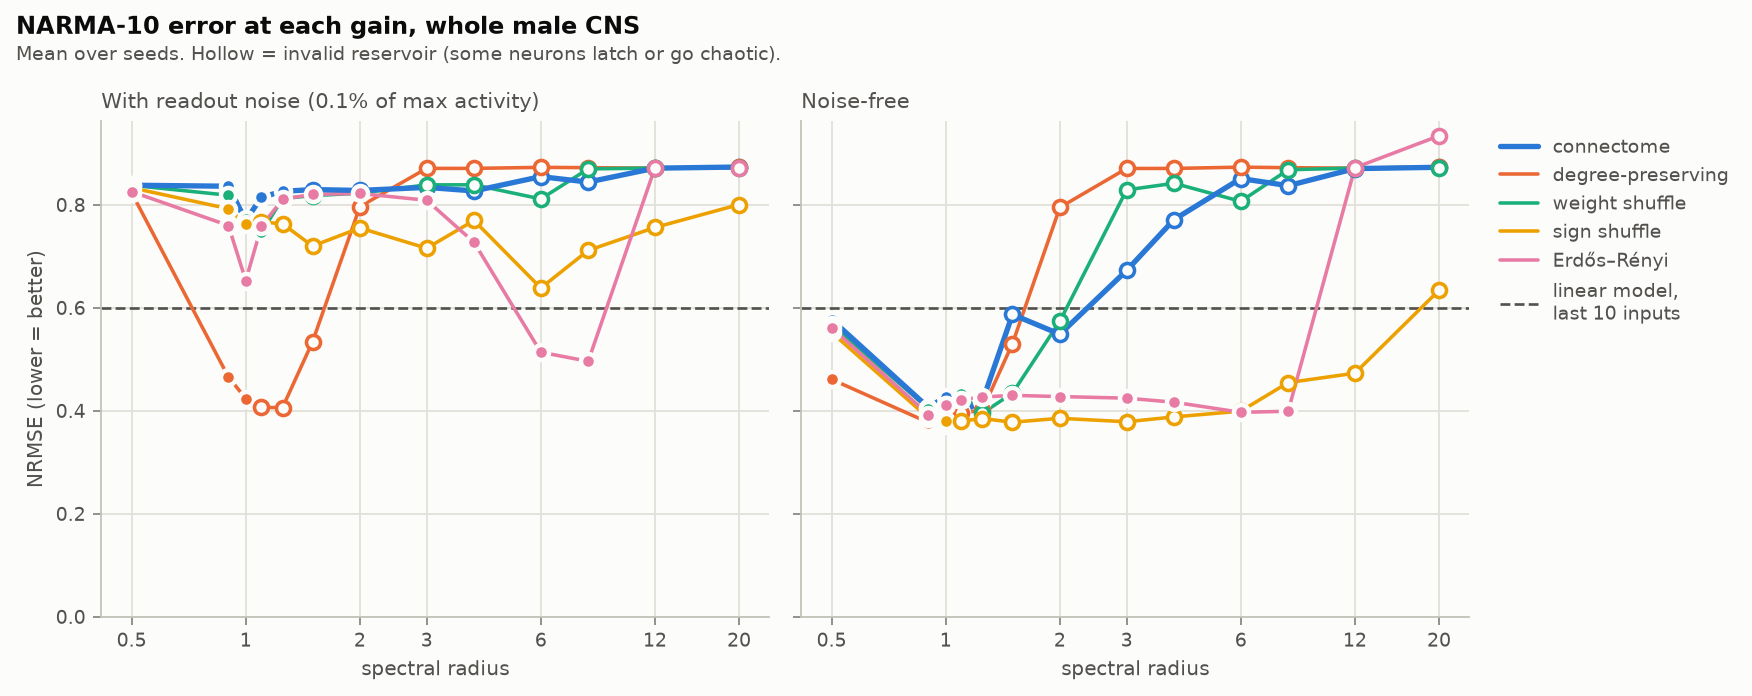
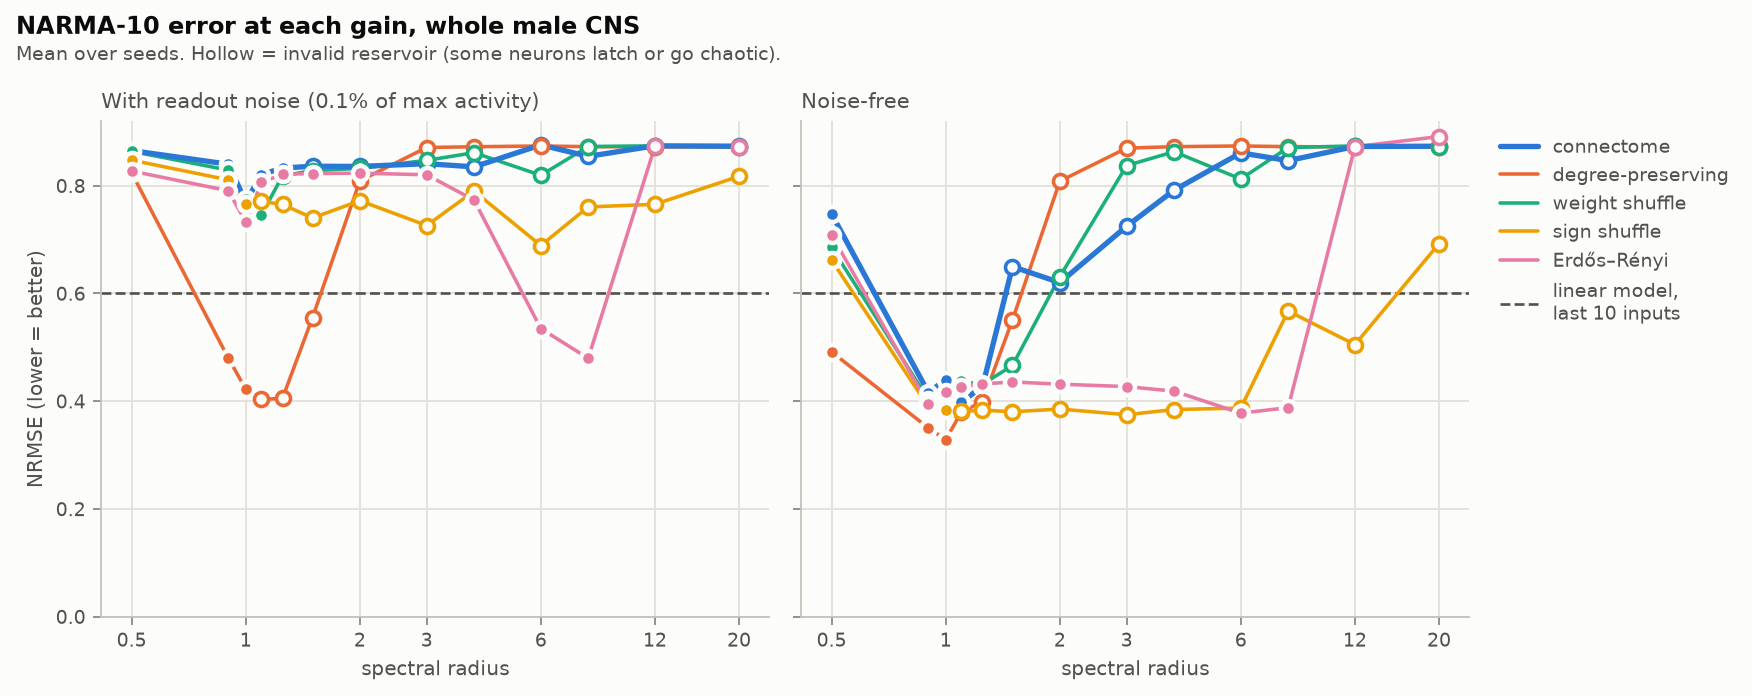
v1.0.1: NARMA-10 and volatility numbers from the corrected runs

diff --git a/src/flyres/narma.py b/src/flyres/narma.py
@@ -201,7 +201,8 @@ def narma_markdown(cfg: ExperimentConfig, grid: pd.DataFrame, best: pd.DataFrame
     noise = cfg.memory.readout_noise
     lines = [f"# NARMA-10: {cfg.name}", "",
              f"NRMSE on the last {N_TEST} of {N_STEPS} steps (lower is better; 1 = predicting the mean). Readout on "
-             f"u(t) and the reservoir state, ridge penalty picked on the end of the training window. "
+             f"u(t) and the recorded neurons one step later, once u(t) has reached them, ridge penalty picked on "
+             f"the end of the training window. "
              f"{len(cfg.seeds)} seed(s); a gain is valid when at most {STABLE_MAX_UNSTABLE:.0%} of readouts are unstable "
              f"in each of {cfg.memory.stability_tests} latching tests, for every seed.", ""]
     if noisy:

diff --git a/src/flyres/__init__.py b/src/flyres/__init__.py
@@ -4,4 +4,4 @@ Pipeline: connectome -> subgraph -> (real or control) wiring -> echo state netwo
 -> ridge readout -> walk-forward evaluation on market data.
 """
 
-__version__ = "1.0.0"
+__version__ = "1.0.1"

diff --git a/README.md b/README.md
@@ -58,11 +58,11 @@ folders; each script's `summary.md` has the rest.
 - **Robust:** feeding the input into random neurons or slowing the neurons down leaves the fly far
   behind across the whole brain. The one exception, slow neurons in a small circuit, is fragile.
 - **Replicated:** FlyWire's female brain, a second, independent connectome, has the same knots in the
-  same order (all but one) and at least the same whole-brain deficit. The male CNS small-circuit tie
-  doesn't replicate.
-- **Volatility:** every reservoir beats the standard HAR benchmark by about 17% at a 5-day horizon,
-  but a linear model with the same inputs already gets 15 of those 17 points, and the wiring moves
-  the result by about 1 point.
+  same order (all but one) and the same whole-brain deficit, larger against Erdős–Rényi. The male
+  CNS small-circuit tie doesn't replicate.
+- **Volatility:** across the whole brain every reservoir beats the standard HAR benchmark by about
+  17% at a 5-day horizon (15–16% in the small circuit), but a linear model with the same inputs
+  already gets 15 of those 17 points, and the wiring moves the result by about 1 point.
 
 <p align="center">
   <img src="docs/img/scoreboard.png" width="900" alt="Dumbbell chart: in every setup and both connectomes, the fly's memory against the better of the two random rewirings; the fly is far behind across the whole brain and level or behind in the small circuits, except with slow neurons">
@@ -147,7 +147,7 @@ distant past or go chaotic, in each of four latching tests with different inputs
 - **3,000 neurons: a tie.** Raising the gain to 3 more than doubles the fly's memory, and four of
   the five wirings land between 6.0 and 7.4, with the fly (6.7) between the two scrambled wirings
   (6.0 and 7.1; the sign shuffle latches at any gain above 1.1 and stays at 4.3). In this circuit
-  the next hot spot is much weaker than the antennal lobe (82 vs 251), so the gain can go up about
+  the next hot spot is much weaker than the antennal lobe (82 vs 252), so the gain can go up about
   3× and wake most of the circuit (59% of readouts move) before anything latches. Noise-free, the
   connectome and the weight shuffle even come out ahead (14.0 and 14.7 vs 9.6 to 11.2), but that
   lead lives in tiny fluctuations and disappears with noise.
@@ -243,8 +243,8 @@ do.)
   where it started (7–9×).
 - **The fly mostly latches.** Of its 12 tries (4 targets × 3 seeds), the fly ends up valid once in
   the small circuit and twice in the whole brain; the degree-preserving shuffle 9 times at both
-  scales. When the fly latches, 80–90% of the circuit locks up at once (checked on the small
-  circuit), so it's a global state, not one knot.
+  scales. When the fly latches, most of the circuit usually locks up at once (a median of 88% of the
+  readouts in the small circuit, 90% in the whole brain), so it's a global state, not one knot.
 - **Topology again, at brain scale.** In the small circuit the weight shuffle (the fly's connections,
   synapse counts shuffled) does fine, which suggested the fly's actual synapse counts were the
   problem. The whole brain doesn't back that up: there the weight shuffle never ends up valid (0 of
@@ -272,21 +272,24 @@ its best valid one, with the same readout noise as memory capacity.
 
 | NARMA-10 error (NRMSE, lower is better), best valid gain | connectome | degree-preserving | weight shuffle | sign shuffle | Erdős–Rényi |
 |---|---|---|---|---|---|
-| 3,000 neurons, readout noise | 0.70 | 0.66 | 0.70 | 0.65 | 0.68 |
-| whole CNS, readout noise | **0.77** | 0.42 | 0.75 | 0.76 | 0.50 |
-| *whole CNS, noise-free* | *0.43* | *0.37* | *0.43* | *0.38* | *0.40* |
+| 3,000 neurons, readout noise | 0.70 | 0.67 | 0.71 | 0.67 | 0.71 |
+| whole CNS, readout noise | **0.77** | 0.42 | 0.75 | 0.77 | 0.48 |
+| *whole CNS, noise-free* | *0.44* | *0.33* | *0.44* | *0.38* | *0.39* |
 
 - **Same split as memory.** Across the whole brain, the two wirings that scramble the fly's
-  connections beat the linear model (0.42 and 0.50); the three that keep them don't (0.75 to 0.77),
+  connections beat the linear model (0.42 and 0.48); the three that keep them don't (0.75 to 0.77),
   even at their best gain.
 - **Memory capacity predicts it.** Over all valid whole-brain reservoirs, more memory means lower
-  NARMA error (Spearman ρ = −0.69, 90 reservoirs; −0.38 in the small circuit). So memory capacity
+  NARMA error (Spearman ρ = −0.66, 90 reservoirs; −0.37 in the small circuit). So memory capacity
   isn't a quirky benchmark: it tracks the ability to compute with the past.
-- **In the small circuit nothing beats the linear model** once there's readout noise (best 0.65
-  against 0.60). 300 readout neurons out of 3,000 can't carry that product cleanly enough.
-- **Noise-free, every wiring looks alike** (0.37 to 0.43 across the whole brain, in line with
-  published echo state results), because the readout decodes the fly's millionth-sized
-  fluctuations. The first version of this benchmark was scored that way and flattered the fly.
+- **In the small circuit nothing beats the linear model** once there's readout noise (best 0.67
+  against 0.60). Noise-free most wirings do, down to 0.43 and 0.45 for the weight shuffle and the
+  connectome at gain 3, but that doesn't survive the noise.
+- **Noise-free, the wirings look much closer** (0.33 to 0.44 across the whole brain), because the
+  readout decodes the fly's millionth-sized fluctuations. The first version of this benchmark was
+  scored that way and flattered the fly. (A later check also caught it reading the recorded neurons
+  a step too early, before the newest input had reached them; fixing that changed the whole-brain
+  numbers above by at most 0.04.)
 
 ### Robustness: moving the input, slowing the neurons
 
@@ -358,11 +361,11 @@ nerve cord (139,248 neurons). It goes through the identical pipeline: same code,
   projection neurons. Next come the optic lobe (159, 154), the central brain (115) and the central
   complex (78, 73). In the male CNS: 251, then 206, 178, 173, a mushroom-body knot (148) that isn't
   among FlyWire's top eight, then 116.
-- **The same whole-brain deficit, or worse.** At the standard gain only 1% of FlyWire's readouts move
-  (79% in the degree-preserving shuffle), and the fly's memory is 2.3 against 16.1; in the male CNS's
-  gain sweep it was 2.2 against 16.1. At each wiring's best gain the fly reaches 3.0 against 22 and 72
-  (7× and 24× behind, against 8× and 11× in the male CNS), and the three wirings with the fly's
-  connections end up at 3.0 to 3.3, as in the male CNS (2.9 to 3.1).
+- **The same whole-brain deficit, larger against Erdős–Rényi.** At the standard gain only 1% of
+  FlyWire's readouts move (79% in the degree-preserving shuffle), and the fly's memory is 2.3 against
+  16.1; in the male CNS's gain sweep it was 2.2 against 16.1. At each wiring's best gain the fly
+  reaches 3.0 against 22 and 72 (7× and 24× behind, against 8× and 11× in the male CNS), and the
+  three wirings with the fly's connections end up at 3.0 to 3.3, as in the male CNS (2.9 to 3.1).
 - **The small-circuit tie doesn't replicate.** FlyWire's 3,000-neuron circuit, grown the same way
   from its most-connected sensory neurons, leaves the fly 5–9× behind even at its best gain (4.8 vs
   25 and 42). The tie was a property of the male CNS circuit, not of fly wiring.
@@ -384,8 +387,9 @@ Returns are close to unpredictable; volatility isn't. `scripts/vol_forecast.py` 
 on the same reservoirs (same wiring, inputs and seeds as above) and forecasts the log realized
 variance over the next 5 and 22 trading days, walk-forward on the same test days. The benchmark is
 HAR (Corsi 2009), the standard model for this. Each reservoir's readout also sees the HAR features
-and its own 5 inputs directly, so it contains the linear model *HAR + inputs* as a special case: the
-gap between a reservoir and *HAR + inputs* is what the wiring adds.
+and its own 5 inputs directly, practically unpenalized, and the linear model *HAR + inputs* is fitted
+the same way on the same columns, so it is exactly a reservoir readout without its states: the gap
+between a reservoir and *HAR + inputs* is what the reservoir's states add.
 
 <p align="center">
   <img src="docs/img/vol_models_full.png" width="820" alt="Out-of-sample error of each model's volatility forecasts relative to HAR, whole CNS, 5- and 22-day horizons">
@@ -393,38 +397,43 @@ gap between a reservoir and *HAR + inputs* is what the wiring adds.
 
 | whole CNS: log MSE vs HAR (R², log) | next 5 days | next 22 days |
 |---|---|---|
-| connectome | −16.5% (0.535) | −4.8% (0.446) |
-| degree-preserving | −17.1% (0.539) | −6.0% (0.453) |
-| weight shuffle | −16.8% (0.537) | −4.9% (0.446) |
-| sign shuffle | −16.5% (0.536) | −4.9% (0.446) |
-| Erdős–Rényi | −16.7% (0.537) | −5.0% (0.447) |
-| HAR + inputs (linear) | −14.9% (0.527) | **−6.9% (0.458)** |
-| HAR | 0% (0.444) | 0% (0.418) |
-| EWMA | +1.4% (0.436) | −3.7% (0.439) |
+| connectome | −16.5% (0.535) | −3.0% (0.446) |
+| degree-preserving | −17.1% (0.539) | −4.2% (0.453) |
+| weight shuffle | −16.8% (0.537) | −3.1% (0.446) |
+| sign shuffle | −16.5% (0.536) | −3.1% (0.446) |
+| Erdős–Rényi | −16.7% (0.537) | −3.2% (0.447) |
+| HAR + inputs (linear) | −14.9% (0.527) | **−6.4% (0.465)** |
+| HAR | 0% (0.444) | 0% (0.429) |
+| EWMA | +1.4% (0.436) | −1.8% (0.439) |
 
 - **Volatility is forecastable, and the biggest gain is linear.** HAR explains 44% of the variation
   in next week's log variance. Adding the reservoir's five inputs (recent returns, 20-day volatility
   and the vol-spike ratio) in a plain linear model cuts the error by another 15%, the largest
   forecasting improvement in this project, and no reservoir is involved.
 - **The reservoir adds a little, at short horizons only.** Every wiring improves on HAR + inputs by
-  2–3% at 5 days (Diebold–Mariano p ≤ 0.014 for all five) and not at all at 22 days, where the
+  2–3% at 5 days (Diebold–Mariano p ≤ 0.03 for all five) and not at all at 22 days, where the
   linear model is best.
 - **The wiring barely matters.** The wirings are within about 1 point of each other (0.6 at 5 days,
-  1.2 at 22), against 17% over HAR. At the standard gain the fly is 0.6% behind the
-  degree-preserving shuffle at 5 days (consistent across seeds, p = 0.01, but tiny); with every
+  1.2 at 22), against 17% over HAR. At the standard gain the fly is 0.3–0.6% behind the weight and
+  degree-preserving shuffles at 5 days (consistent across seeds, p = 0.01, but tiny); with every
   wiring at its best gain it lands between the controls.
-- **Memory helps only a little.** At the standard gain, reservoirs with more memory forecast slightly
-  better at 5 days (Spearman ρ = −0.33 over 50 reservoirs, p = 0.02). With every wiring at its best
-  gain, where memory ranges from 3 to 31, there's no relationship (15 reservoirs). The HAR features
-  already carry a month of history, which leaves little for the reservoir's own memory to add.
+- **Memory doesn't help within a wiring.** At the standard gain, reservoirs with more memory forecast
+  slightly better at 5 days (Spearman ρ = −0.33 over 50 reservoirs), but that's a comparison between
+  wirings: within a wiring, seeds with more memory forecast no better (ρ = +0.11, p = 0.45, shuffling
+  memory within wirings). With every wiring at its best gain, where memory ranges from 3 to 31,
+  there's no relationship across wirings (ρ = +0.15, 15 reservoirs), and within each wiring the seed
+  with the most memory tends to forecast worst at 5 days (ρ = +0.90, p = 0.003, but that's 3 seeds
+  per wiring). The HAR features already carry a month of history, which leaves little for the
+  reservoir's own memory to add.
 - The 3,000-neuron circuit tells the same story (reservoirs −15.2% to −16.0% vs HAR at 5 days, HAR +
-  inputs −14.2%). More memory goes with slightly lower error at both horizons (ρ = −0.37, p = 0.07 at
-  5 days; −0.41, p = 0.04 at 22; 25 reservoirs), but at 22 days most reservoirs trail the linear
-  model anyway, and with four such correlations tested that's weak evidence. One failure worth
-  knowing: with every wiring at its best gain, one seed of the sign shuffle (gain 1.1) passes all
-  its white-noise latching tests but blows up in the 2008 crash. From late October 2008 to March
-  2009 it forecasts more than 200% annualized volatility, peaking in the thousands of percent, where
-  its other seeds say about 45%. That one seed puts the sign shuffle's average below HAR (+15.7%).
+  inputs −14.2%; the reservoirs again add 2–3% to it, with Diebold–Mariano p from 0.003 to 0.055).
+  Across its 25 reservoirs more memory goes with slightly lower error (ρ = −0.37 at 5 days, −0.41 at
+  22); within wirings it's similar at 5 days but not significant (ρ = −0.34, p = 0.14) and gone at
+  22 (ρ = −0.02), and at 22 days most reservoirs trail the linear model anyway. One failure worth
+  knowing: with every wiring at its best gain, one seed of the sign shuffle (gain 1.1) passes all its
+  white-noise latching tests but blows up in the 2008 crash. From late October 2008 to March 2009 it
+  forecasts more than 200% annualized volatility, peaking at about 28,500% in November, where its
+  other seeds say about 50%. That one seed puts the sign shuffle's average below HAR (+15.7%).
 
 Why log MSE and not QLIKE, the usual volatility loss: every log model here (HAR, HAR + inputs, the
 reservoirs) is fitted for log MSE, so it compares them like for like. Log models target the mean of
@@ -636,7 +645,7 @@ python scripts/run_experiment.py --config configs/small.yaml --set reservoir.nor
 - `configs/full.yaml` runs the whole CNS (`method: all`) with 4 parallel jobs. Meant for a desktop
   (32 GB RAM is plenty). With the GPU backend on an RX 7900 XTX the experiment takes about 12
   minutes, the gain sweep about 6, NARMA-10 about 7, the per-region search about 35 and the
-  homeostatic rule about 20, the volatility forecasts about 17 and the robustness checks about 20;
+  homeostatic rule about 20, the volatility forecasts about 20 and the robustness checks about 20;
   CPU-only is slower. The animation at the top is `brain_activity.py
   --config configs/full.yaml --set reservoir.backend=torch --compare degree_preserving`; it
   simulates the whole CNS in blocks of 20,000 recorded neurons, so memory stays small.
@@ -729,14 +738,15 @@ full 166k each time step is a sparse multiply with ~6M connections, which is whe
   shrink by 10–15% (7.4× to 6.6×, 24.5× to 20.9×). The conclusion doesn't change, but the exact
   ratios are a little generous to random wiring.
 - The readout noise level (std 0.001) is a judgment call. It changes the small-circuit
-  verdict at best gains (the fly's connections ahead noise-free, a tie with noise), not the
-  whole-brain one.
+  verdict at best gains (the connectome and the weight shuffle ahead noise-free, a tie with noise),
+  not the whole-brain one.
 - Realized variance comes from daily squared returns, the only thing daily closes allow. That proxy
   is noisy; with intraday (5-minute) data every volatility model would be more precise and HAR harder
   to beat.
-- Across the whole brain, two benchmarks (memory capacity and NARMA-10) rank the wirings the same
-  way; in the small circuit, NARMA barely separates them. Other tasks, such as predicting a chaotic
-  time series, could still rank them differently.
+- Across the whole brain, two benchmarks (memory capacity and NARMA-10) split the wirings the same
+  way, the two scrambled ones far ahead of the three that keep the fly's connections, though the
+  order within each group differs; in the small circuit, NARMA barely separates them. Other tasks,
+  such as predicting a chaotic time series, could still rank them differently.
 - The leaky variants keep the standard input scaling and readout noise. Retuning both for slow
   neurons could raise every wiring's memory; all wirings get the same setup, so the comparison stays
   paired.
